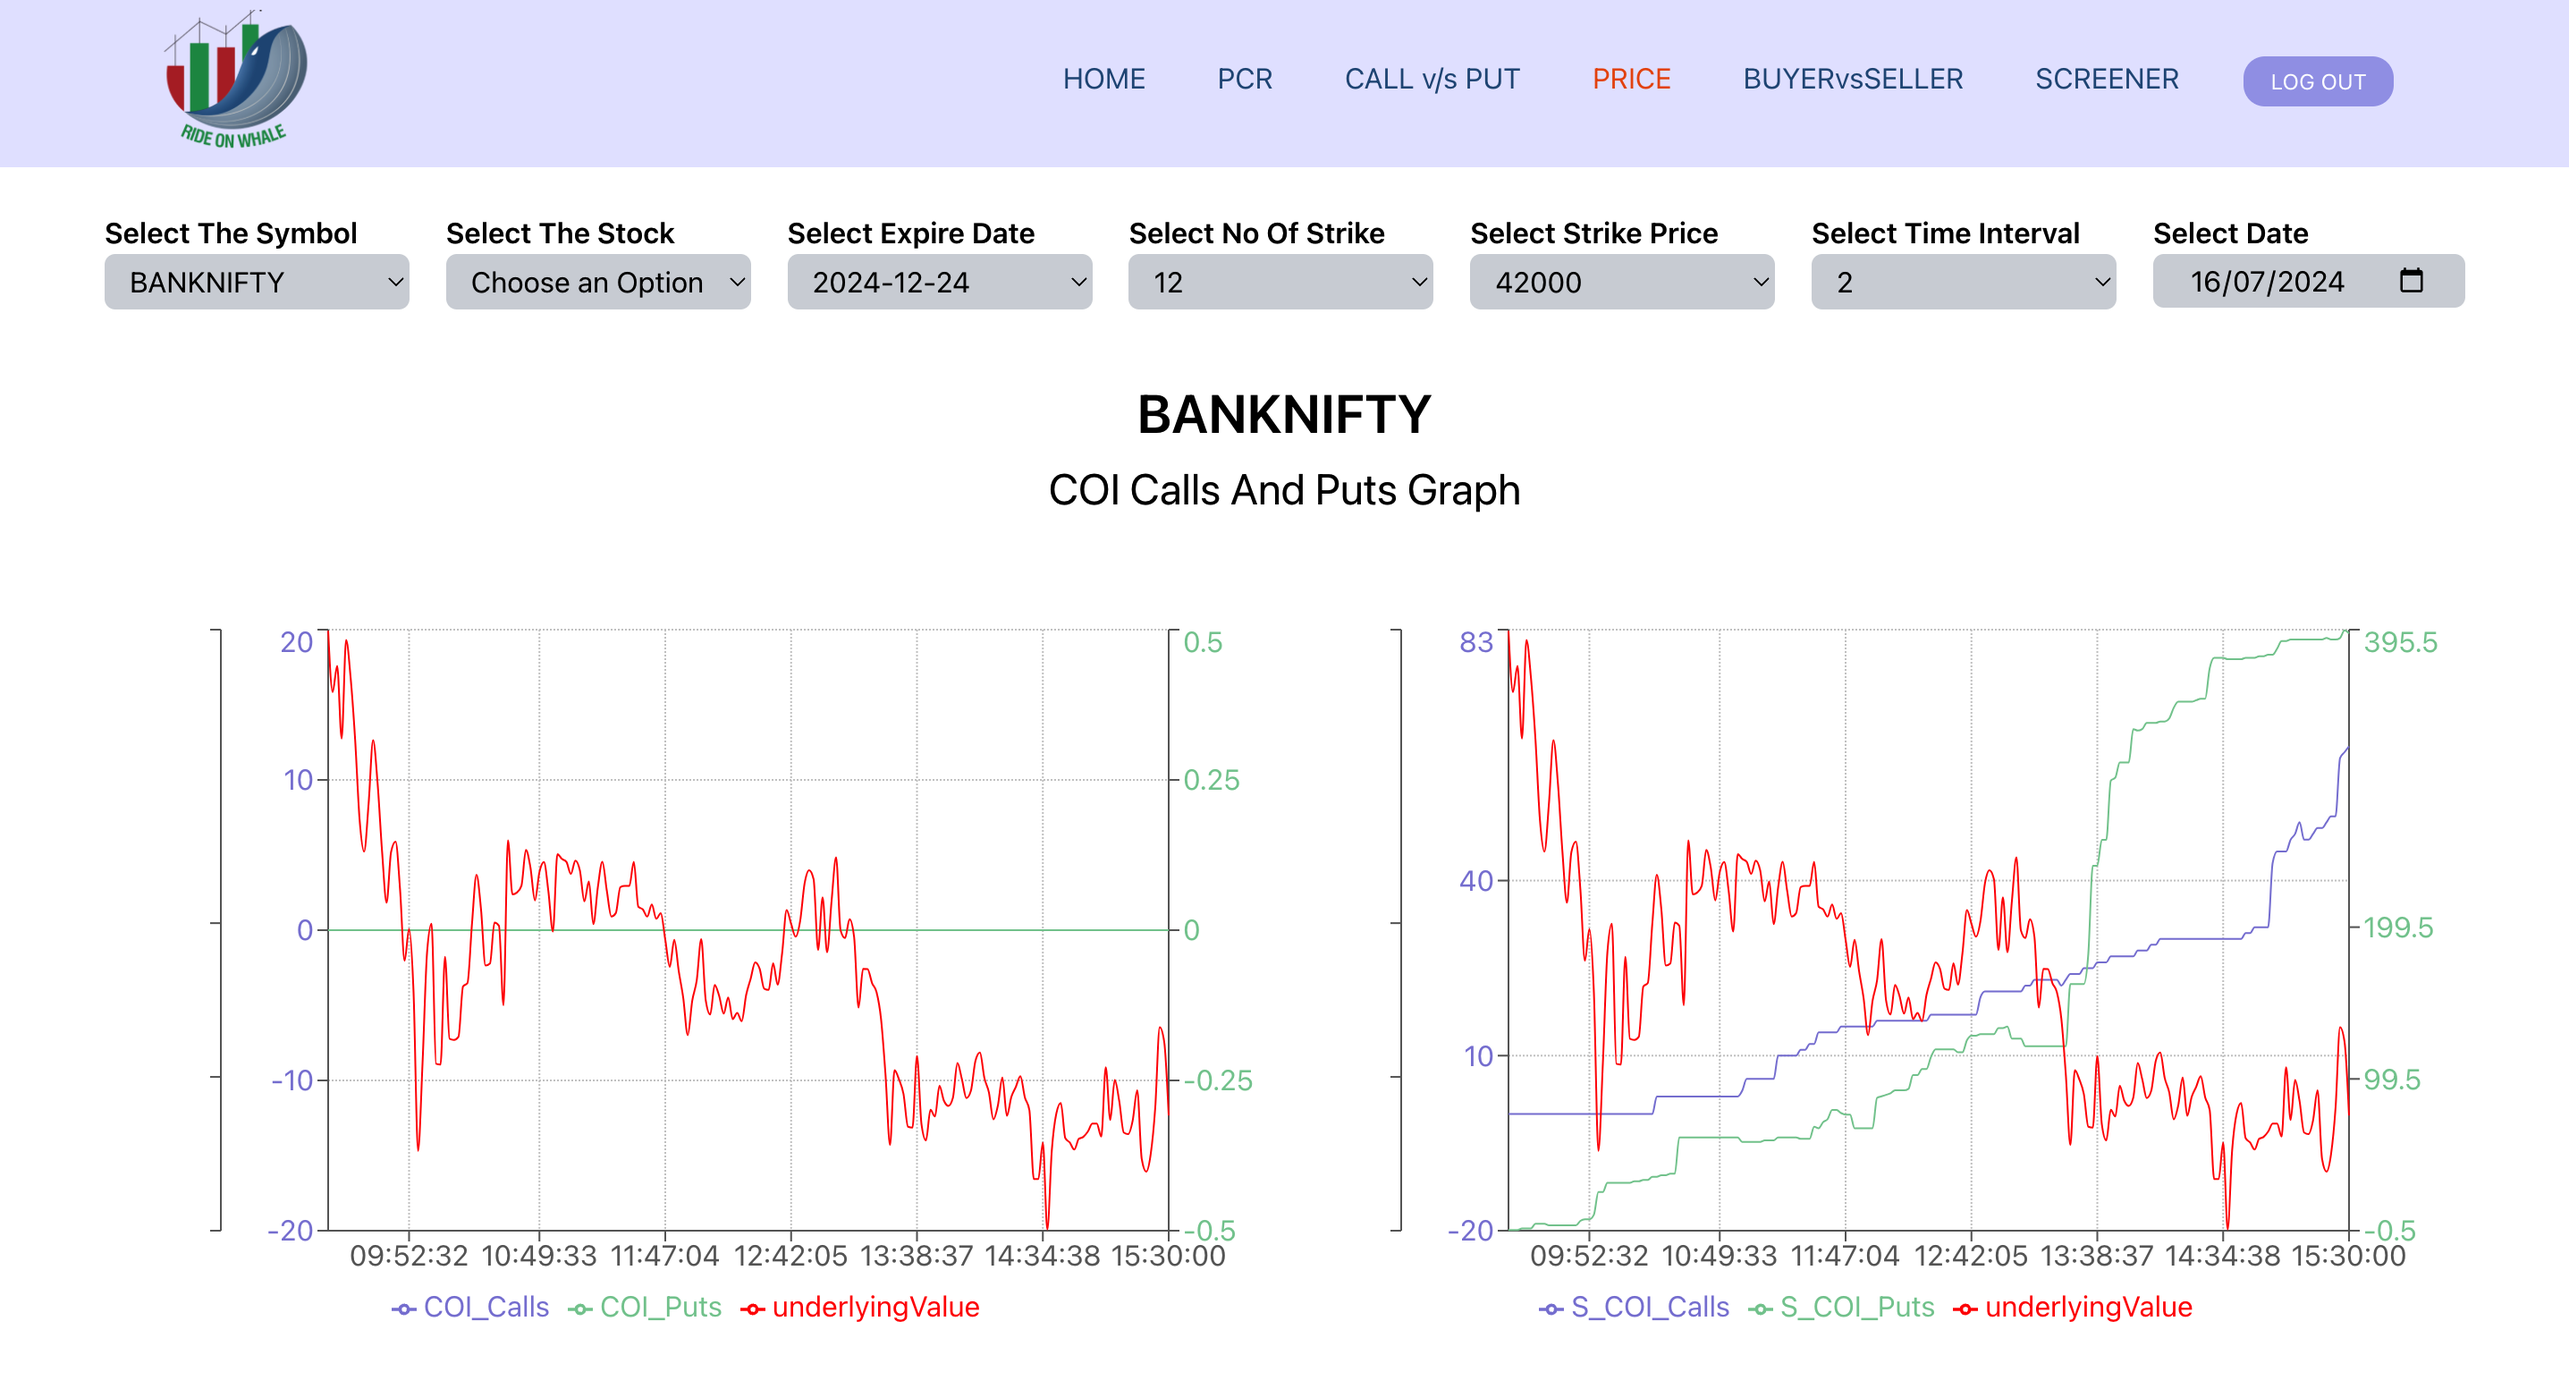
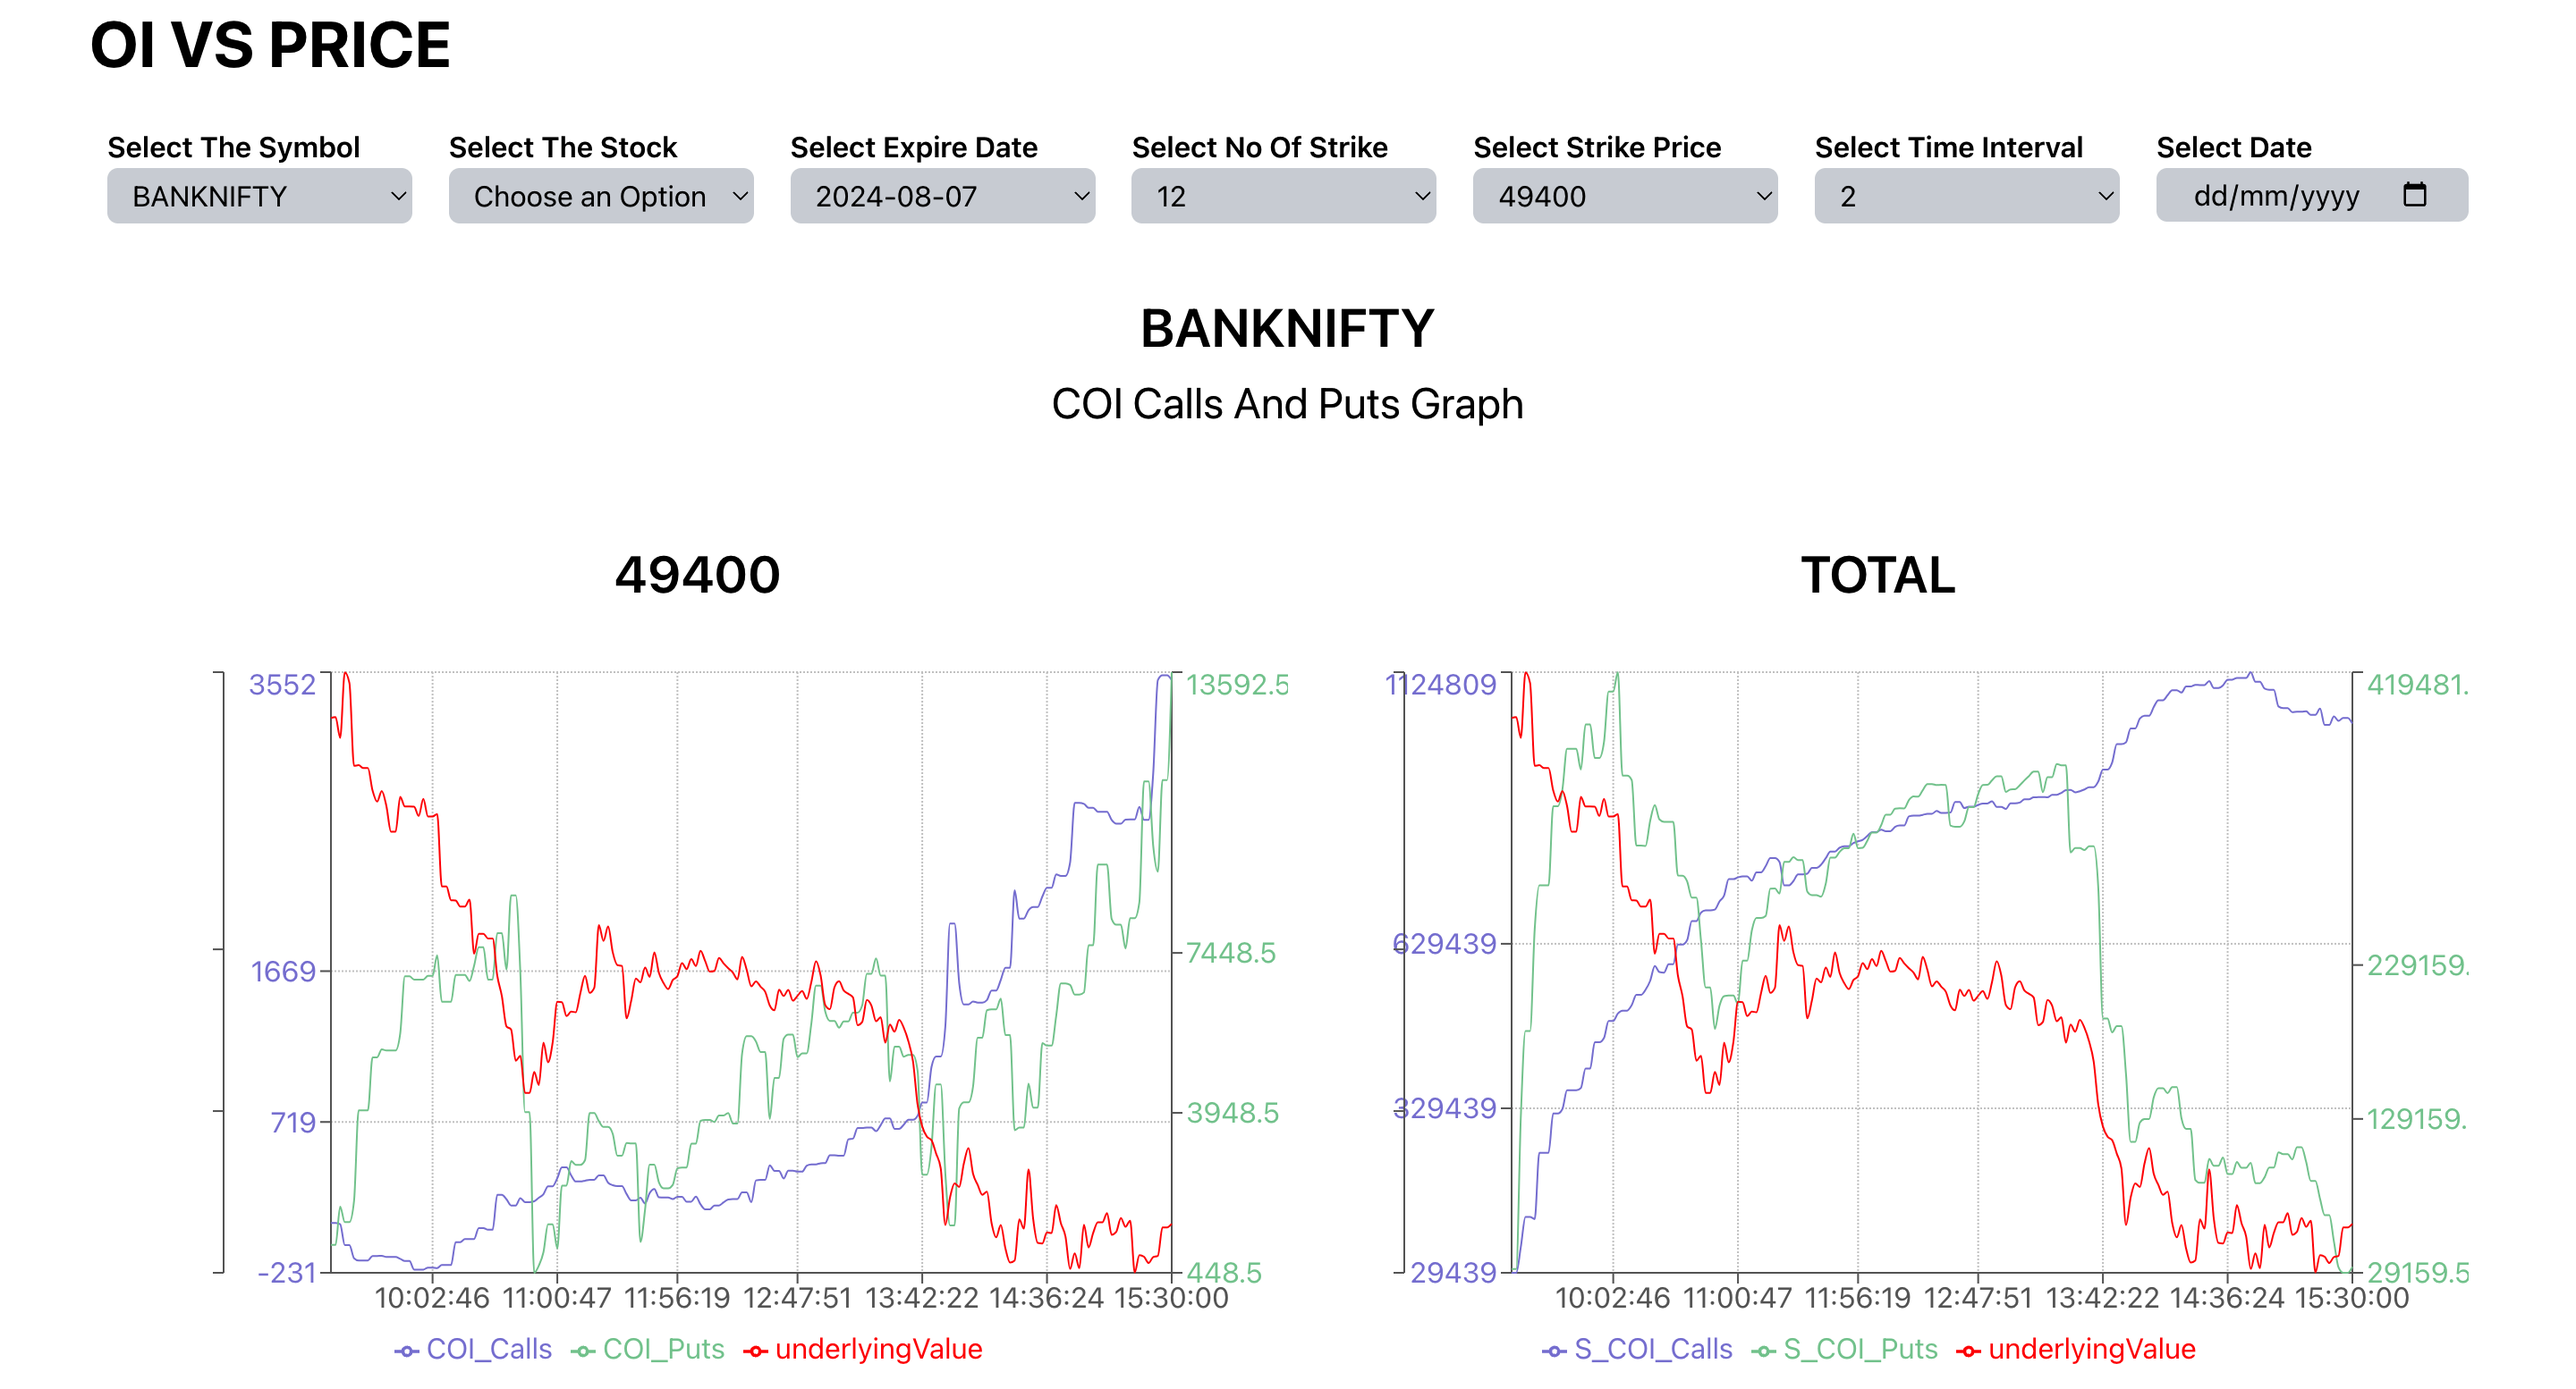
some chnges

diff --git a/FrontEnd/src/Pages/Home.jsx b/FrontEnd/src/Pages/Home.jsx
@@ -1,4 +1,4 @@
-import { useContext, useEffect, useState } from "react";
+import { useContext, useEffect, useRef } from 'react';
 import HeroSection from "../Components/Sections/HeroSection";
 import SectionYoutube from "../Components/Sections/SectionYoutube";
 import PlatformSection from '../Components/Sections/PlatformSection/PlatformSection';
@@ -11,58 +11,50 @@ import { localapi } from "../Assets/config";
 import axios from "axios";
 import InfiniteMoving from "../Components/InfiniteMoving";
 
-// import { getDataFromToken } from "../Assets/CookiesDecoder";
-
-
 function Home() {
+  const { setIsSubscribed, user, setUser } = useContext(AuthContext);
+  const knowledgeRef = useRef(null);
 
-
-  const {setIsSubscribed,user,setUser} = useContext(AuthContext);
-  // console.log(user)
-
-  useEffect(()=>{
-    if(user){
-      axios.post(`${localapi}/issubscribed`, {email: user?.email}).then((result) => {
+  useEffect(() => {
+    if (user) {
+      axios.post(`${localapi}/issubscribed`, { email: user?.email }).then((result) => {
         console.log(result.data.data);
-         if (typeof result.data.data !== 'string') {
-           // If it's not a string, stringify it before storing in localStorage
-           localStorage.setItem("isSubscribed", JSON.stringify(result.data.data));
-       } else {
-           // If it's already a string, directly store it in localStorage
-           localStorage.setItem("isSubscribed", result.data.data);
-       }
-       setIsSubscribed(result.data.data)
-     
+        if (typeof result.data.data !== 'string') {
+          localStorage.setItem("isSubscribed", JSON.stringify(result.data.data));
+        } else {
+          localStorage.setItem("isSubscribed", result.data.data);
+        }
+        setIsSubscribed(result.data.data);
       })
       .catch((err) => {
-        console.log(err)
-        // setUserExist(err.response.status)
-      })
+        console.log(err);
+      });
     }
-      
-    
-  },[user])
+  }, [user]);
 
+  const scrollToKnowledge = () => {
+    knowledgeRef.current.scrollIntoView({ behavior: 'smooth' });
+  };
 
   return (
-    
-  <> 
-
-  <div className="w-full h-auto bg-white flex flex-col overflow-hidden relative">
-      <Navbar/>
-      <div className="">
-      <InfiniteMoving/>
+    <>
+      <div className="w-full h-auto bg-white flex flex-col overflow-hidden relative">
+        <Navbar scrollToKnowledge={scrollToKnowledge} />
+        <div className="">
+          <InfiniteMoving />
+        </div>
+        <div className="md:mt-[0px] mt-[80px]">
+          <HeroSection />
+        </div>
+        <SectionYoutube />
+        <PlatformSection />
+        <div ref={knowledgeRef}>
+          <KnowledgeSection />
+        </div>
+        <FeedbackSection />
+        <Footer />
       </div>
-      <div className="md:mt-[0px] mt-[80px]">
-     <HeroSection/>
-      </div>
-     <SectionYoutube/>
-     <PlatformSection/>
-     <KnowledgeSection/>
-     <FeedbackSection/>
-      <Footer/>
-     </div>
-  </>
+    </>
   );
 }
 

diff --git a/FrontEnd/src/Assets/Data.js b/FrontEnd/src/Assets/Data.js
@@ -3,32 +3,33 @@ import price from '../Assets/platform-img/Price.png'
 import screener from '../Assets/platform-img/SCREENER.png'
 import buyervsseller from '../Assets/platform-img/BUYERvsSELLER.png'
 import callvsput from '../Assets/platform-img/CALLvsPUT.png'
+import OI from "../Assets/platform-img/OI.png"
 
 export const PagesDetail=[
     {
         id:1,
-        heading:"PCR",
+        heading:"MOVEMENT TRACKER",
         detail:"Decode the market participants by Option chain in real-time to see where (Institutional investors, Foreign investors, Big players, Big fish) were they putting their money, If you know their move, if you know where their money is going, you can easily drive with them. See it in every 2,4,6,8,10 minutes what they are doing.Also see at same time Short Covering, Short Buildup, Long Buildup, Long Unwinding and also see support and residence",
         img:pcr
 
     },
     {
         id:2,
-        heading:"CALLv/sPUT",
+        heading:"CALL PUT OI INDICATOR",
         detail:"By CALL v/s PUT you can see In 2,4,6,8,10 mint interval increasing/decreasing  Commulative OI ,Change In Oi, percentage change OI with interval.",
         img:callvsput
     },
     {
         id:3,
-        heading:"PRICE",
+        heading:"OI VS PRICE",
         detail:"By Call vs put Oi you can see both graf with inreval 2,4,6,8,10 so that you can easly see the movement of call and put OI.",
         img:price
     },
     {
         id:4,
-        heading:"BUYERv/sSELLER",
-        detail:"By this you can see were buyer and seller are dominating in call put ,",
-        img:buyervsseller
+        heading:"CUMULATIVE OI",
+        detail:"On this page you can see Cumulative OI data on daily, weekly and monthly basis of Stocks and Indices",
+        img:OI
     },
     {
         id:5,

diff --git a/FrontEnd/src/Components/Navbar/Navbar.jsx b/FrontEnd/src/Components/Navbar/Navbar.jsx
@@ -6,7 +6,7 @@ import Navlogo from "../../Assets/Navbar-img/NavLogo.png";
 import { AiOutlineMenu, AiOutlineClose } from "react-icons/ai";
 import { AuthContext } from "../../Context/AuthContext";
 
-const Navbar = () => {
+const Navbar = ({scrollToKnowledge}) => {
   const { isSubscribed, user, setUser, setIsSubscribed } = useContext(AuthContext);
   const navigate = useNavigate();
 
@@ -43,7 +43,7 @@ const Navbar = () => {
     { title: "CALL PUT OI INDICATOR", path: isSubscribed ? "/CommutativeSum" : "/SubscriptionPage", always: true },
     { title: "OI VS PRICE", path: isSubscribed ? "/StrikeGraph" : "/SubscriptionPage", always: true },
     { title: "BUYER VS SELLER", path: isSubscribed ? "/Buyer_VS_Seller" : "/SubscriptionPage", always: true },
-    { title: "COMMUTATIVE OI", path: isSubscribed ? "/oi" : "/SubscriptionPage", always: true },
+    { title: "CUMULATIVE OI", path: isSubscribed ? "/oi" : "/SubscriptionPage", always: true },
     { title: "SCREENER", path: isSubscribed ? "/screener" : "/SubscriptionPage", always: true },
     { title: "ABOUT US", path: "/AboutUs", always: true },
     { title: "REFUND & CANCELLATION", path: "/RefundandCancel", always: true },
@@ -77,6 +77,9 @@ const Navbar = () => {
             </Link>
           )}
 
+<button onClick={scrollToKnowledge} className="button z-20 py-[5px] flex items-center md:text-[1vw] text-[2.25vw] rounded-xl px-[15px] text-white">
+        KNOWLEDGE
+      </button>
           <button onClick={() => setIsOpen(!isOpen)} className="text-xl md:text-3xl font-bold">
             {isOpen ? <AiOutlineClose /> : <AiOutlineMenu />}
           </button>

diff --git a/FrontEnd/src/Pages/Strikegraph/StrikeGraph.jsx b/FrontEnd/src/Pages/Strikegraph/StrikeGraph.jsx
@@ -201,11 +201,23 @@ const StrikeGraph = () => {
         <div className="py-[30px] px-[10px] flex flex-col">
           {/* its come from Pages/strike graph page/Bargraph */}
           <h2 className=' text-center font-semibold text-3xl mb-2 '>{symbol}</h2>
-          <h2 className=' text-center text-2xl mb-2 '>COI Calls And Puts Graph</h2>
-          <div className='flex flex-col gap-10 md:gap-[0] md:flex-row justify-between mt-[50px]'>
-
+          <h2 className=' text-center text-2xl  '>COI Calls And Puts Graph</h2>
+          <div className='flex flex-col gap-10 md:gap-[0] md:flex-row mt-[20px] w-[100%] justify-between'>
+            <div className='flex flex-col w-[50%] justify-center items-center  '>
+<div className='text-[2vw] mb-[1vw] font-semibold'>
+   {strikePrice}
+</div>
           <LineChartsCallsPuts data={strikegraphData} strikePriceData={strikePriceData} strikePrice={strikePrice} strikePriceHigh={strikePriceHigh}  />
+
+            </div>
+            <div className='flex flex-col w-[50%] justify-center items-center  '>
+<div className='text-[2vw] mb-[1vw] font-semibold'>
+TOTAL
+</div>
+
           <LineChartsCallsPuts2 data={strikegraphData} strikePriceData={strikePriceData} strikePrice={strikePrice} strikePriceHigh={strikePriceHigh}  />
+
+            </div>
           </div>
         </div>
       </div>    

diff --git a/FrontEnd/src/Pages/AboutUs/AboutUs.jsx b/FrontEnd/src/Pages/AboutUs/AboutUs.jsx
@@ -18,7 +18,7 @@ const AboutUS = () => {
       <header className="py-5">
         <h1 className="text-4xl font-bold mb-4">Welcome to Rideonwhale.com</h1>
         <p className="text-lg mb-4">
-          Your ultimate resource for cutting-edge insights and real-time data on options trading. Since our establishment in 2016, we have been committed to empowering option traders with the knowledge, tools, and data they need to excel in the dynamic option trading market.
+          Your ultimate resource for cutting-edge insights and real-time data on options trading. Since our establishment in 2022, we have been committed to empowering option traders with the knowledge, tools, and data they need to excel in the dynamic option trading market.
         </p>
       </header>
       

diff --git a/FrontEnd/src/Pages/oi/oi.jsx b/FrontEnd/src/Pages/oi/oi.jsx
@@ -74,7 +74,7 @@ const OI = () => {
         </div>
       ) : (
         <div className="w-full mx-[2vw] mx-auto p-4">
-          <h1 className="text-4xl font-bold mb-4 my-[2vw] ">COMMUTATIVE OI </h1>
+          <h1 className="text-4xl font-bold mb-4 my-[2vw] ">CUMULATIVE OI </h1>
           <div className="w-full h-auto px-[0px] sm:p-[10px] flex gap-[10px] justify-between flex-wrap">
             <DropDown
               symbol={symbol}

diff --git a/FrontEnd/src/Pages/DataPage/Datapage.jsx b/FrontEnd/src/Pages/DataPage/Datapage.jsx
@@ -255,9 +255,7 @@ useEffect(()=>{
      
      
       <div className=" w-full h-auto flex flex-col justify-center mt-[20px]">
-        <h1 className=" self-center text-xl font-bold mb-[10px]">
-          Table Of Data
-        </h1>
+        
         <h2 className=' font-semibold text-3xl mb-2 '>{symbol}</h2>
         {live ? (
           <div className="flex items-center gap-[10px] ml-[12px]">

diff --git a/FrontEnd/src/Assets/config.js b/FrontEnd/src/Assets/config.js
@@ -1,8 +1,4 @@
-// export const localapi = "http://157.15.202.107:5000";
 export const localapi = "http://157.15.202.107:5000";
-// export const authApi="http://157.15.202.107:8080"
- export const authApi="http://157.15.202.107:8080"
-
- export const adminEmail="abc@gmail.com"
- export const adminPassword="123"
+export const adminEmail="abc@gmail.com"
+export const adminPassword="123"
 

diff --git a/FrontEnd/src/Pages/Commutative Change in OI/CommutativeSum.jsx b/FrontEnd/src/Pages/Commutative Change in OI/CommutativeSum.jsx
@@ -150,9 +150,7 @@ const CommutativeSum = () => {
       </div>
 
       <div className=" w-full h-auto flex flex-col justify-center mt-[20px]">
-        <h1 className=" self-center text-xl font-bold mb-[10px]">
-          Table Of Data
-        </h1>
+    
         </div>
         {/* <div className="py-[30px] px-[10px]">
            its come from Pages/commutative page/Bargraph 

diff --git a/FrontEnd/src/Pages/Buyer_VS_Seller/Buy_Seller.jsx b/FrontEnd/src/Pages/Buyer_VS_Seller/Buy_Seller.jsx
@@ -196,9 +196,6 @@ useEffect(()=>{
       </div>
 
       <div className=" w-full h-auto flex flex-col justify-center mt-[20px]">
-        <h1 className=" self-center text-xl font-bold mb-[10px]">
-          Table Of Data
-        </h1>
         </div>
         <h2 className=' text-center mt-[10px] font-semibold text-3xl mb-2 '>{symbol}</h2>
         <div className="">
